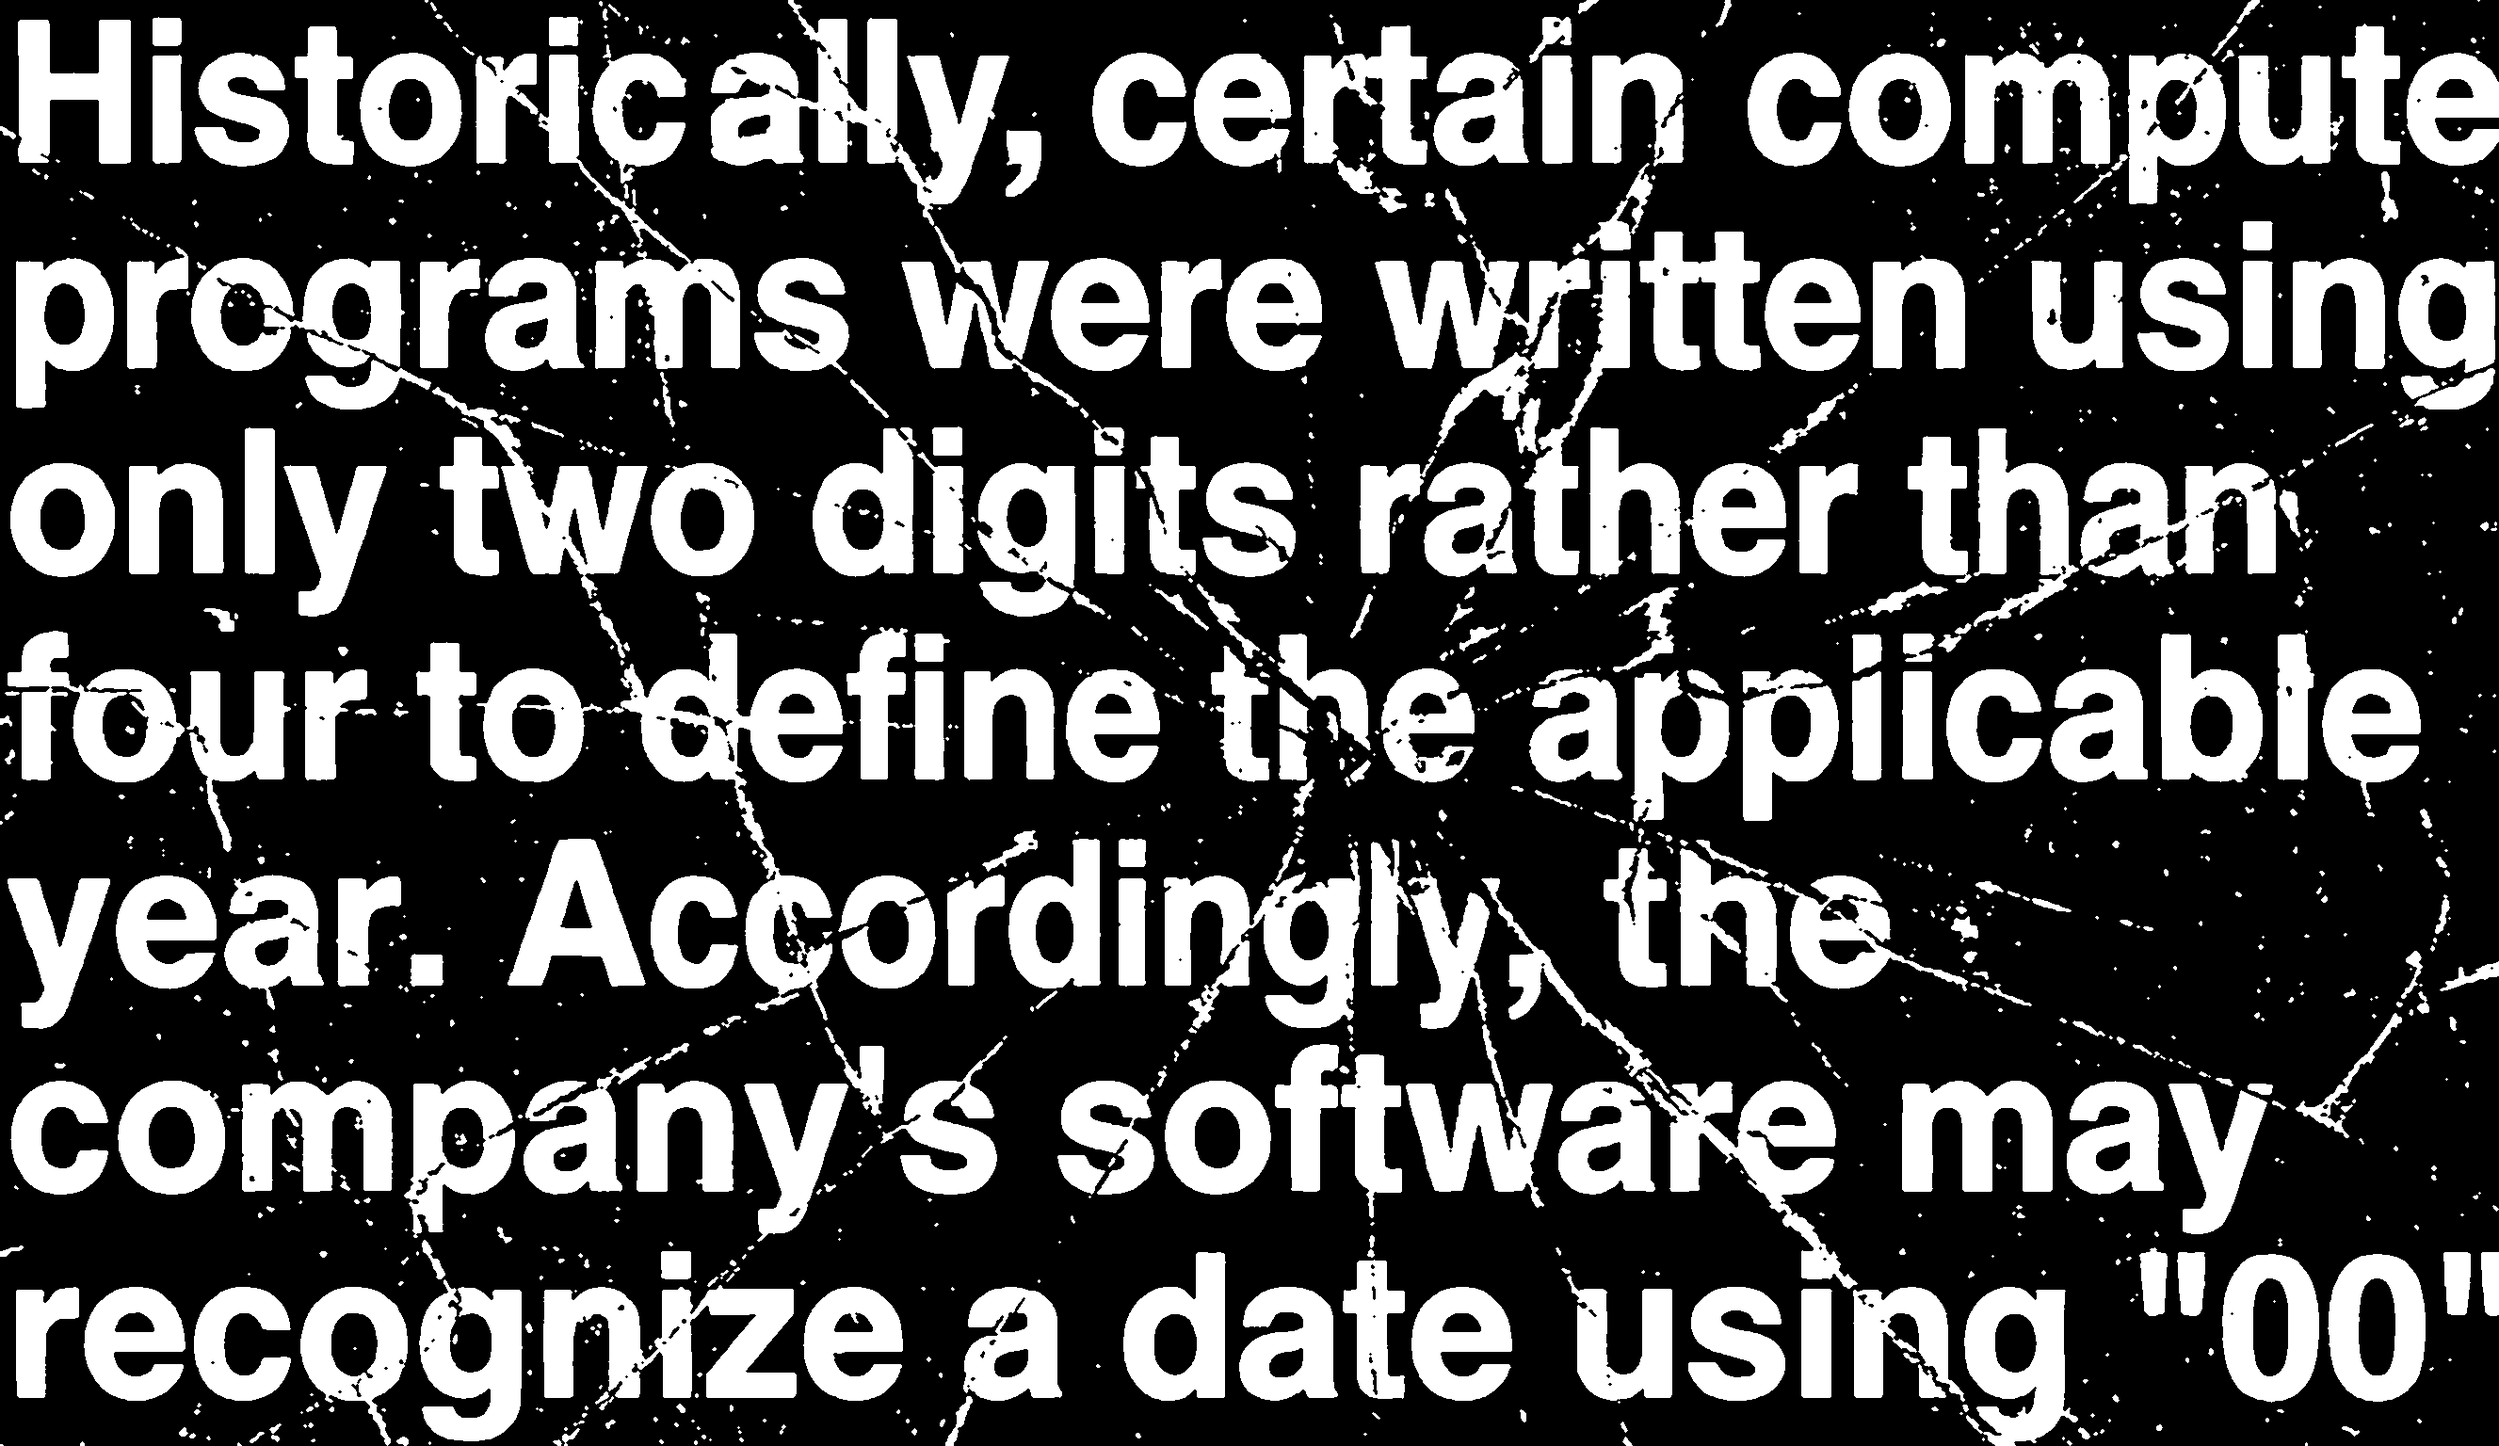
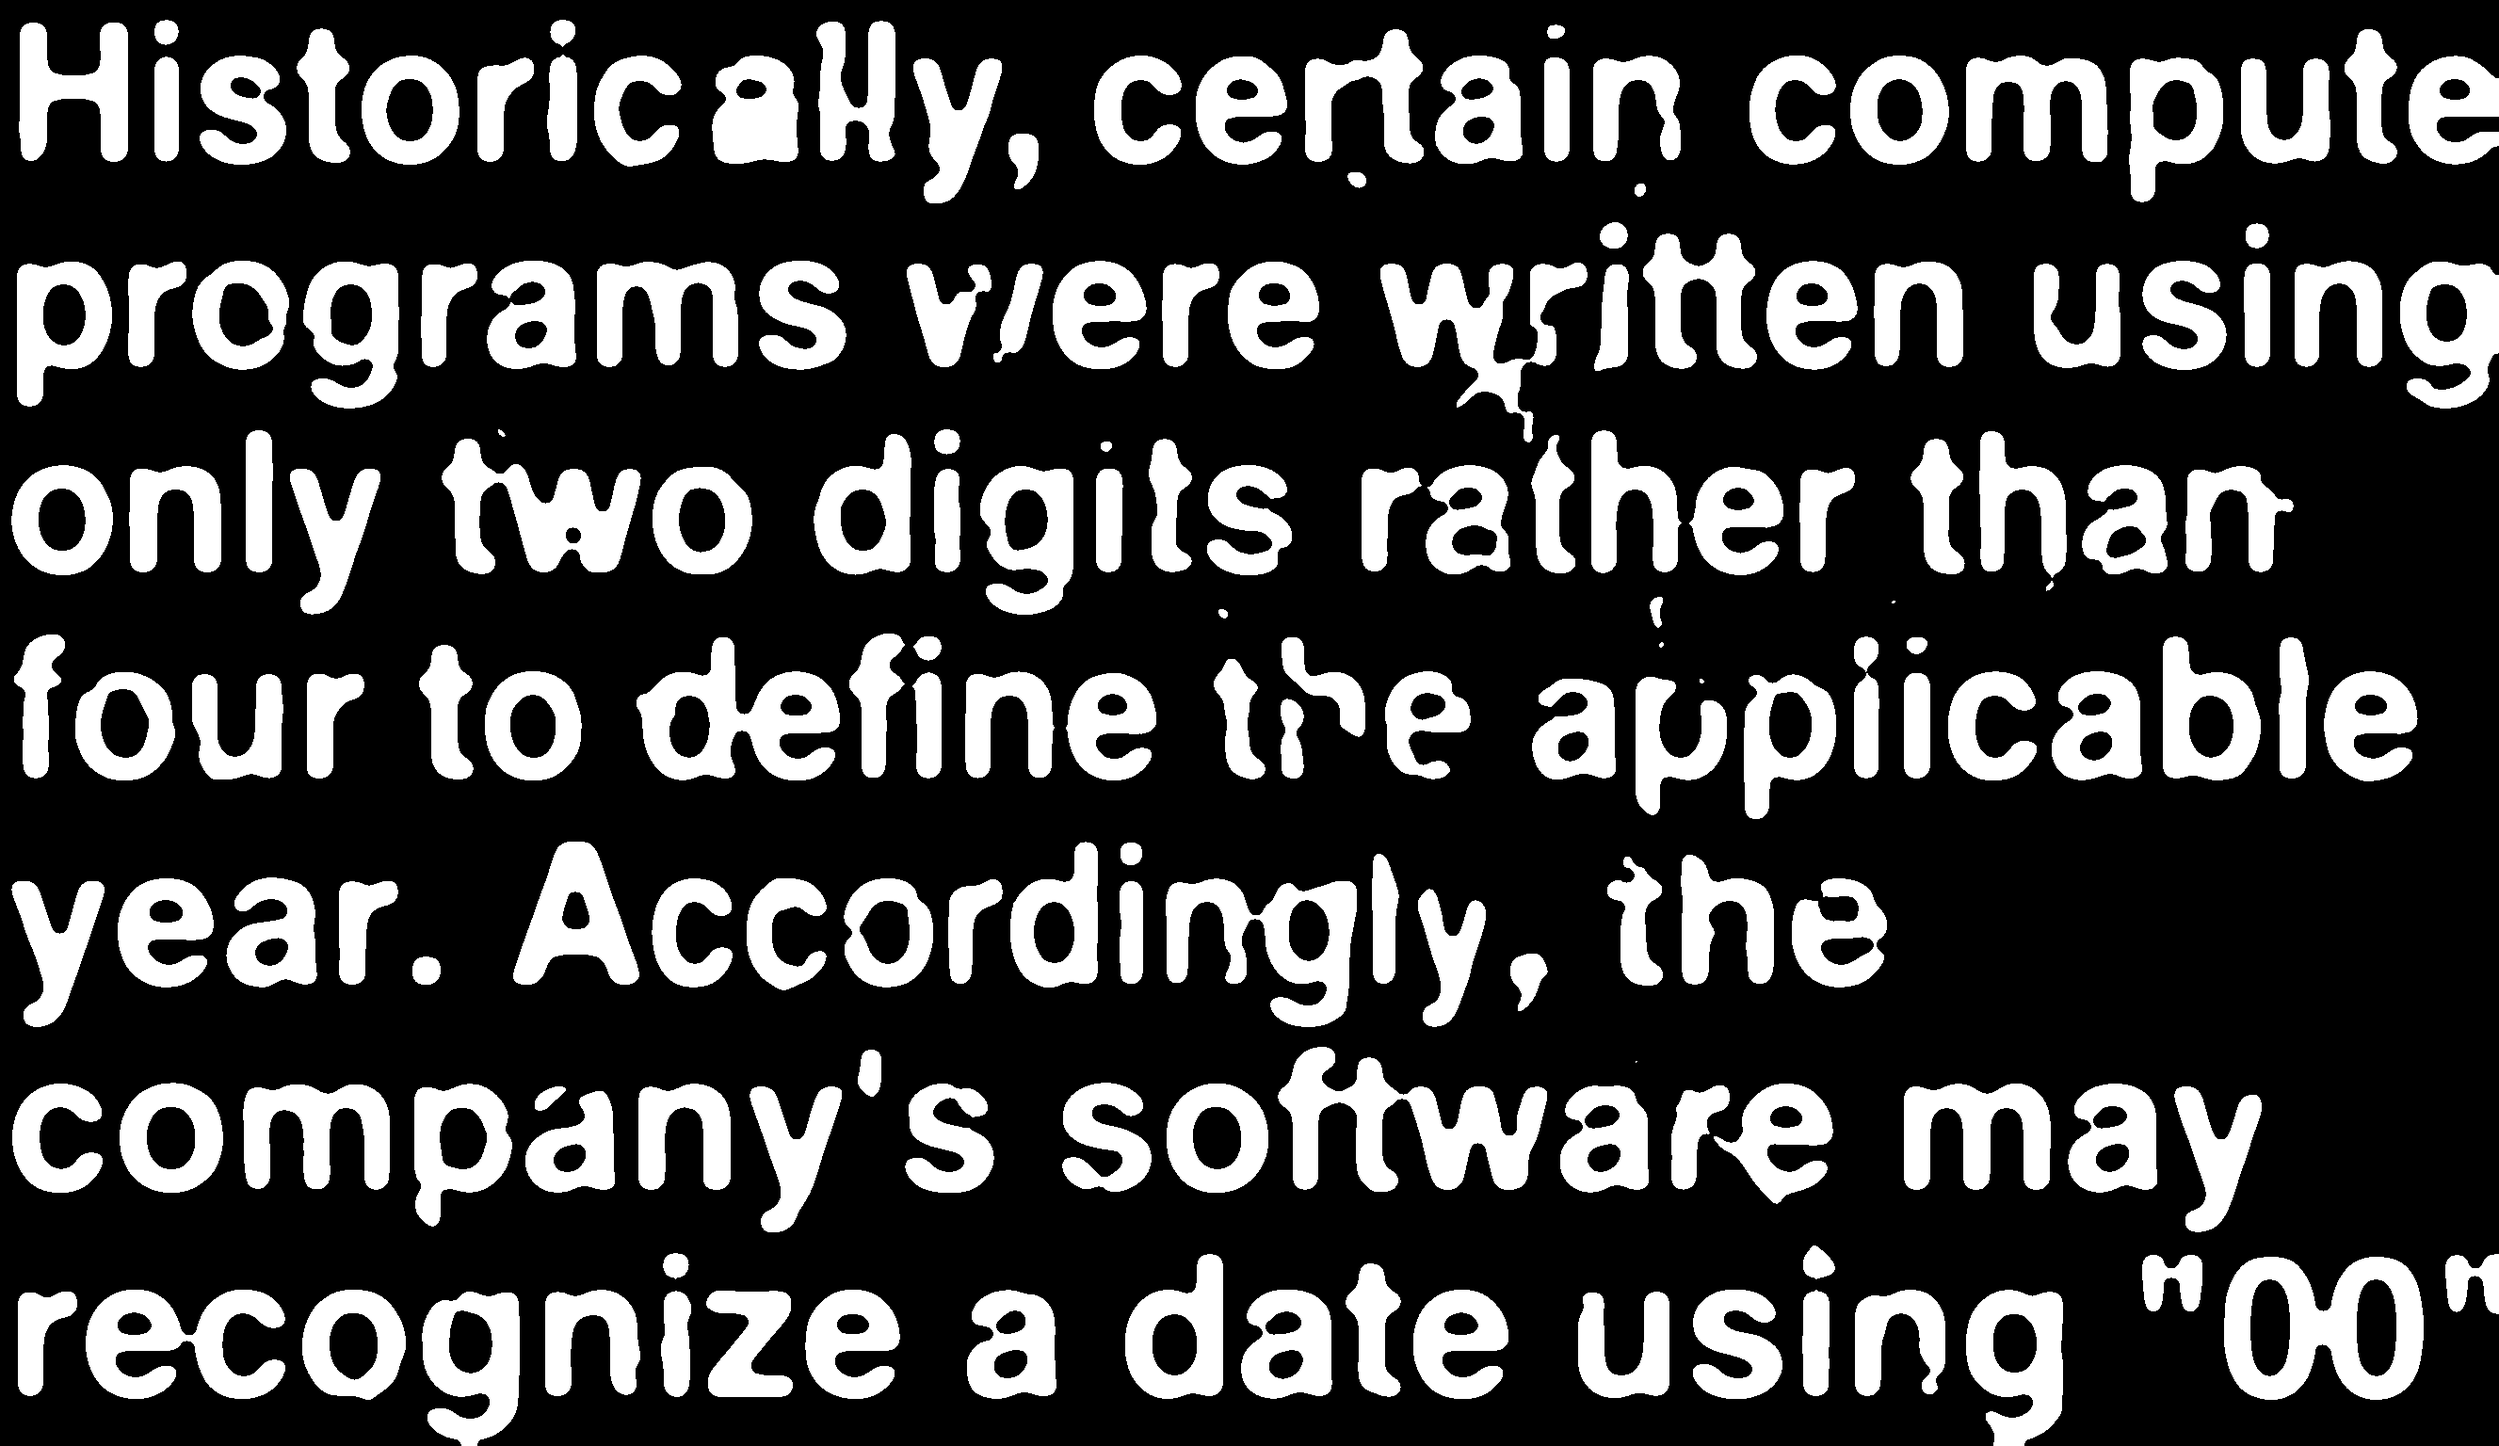
Done on image 1 enhancement

diff --git a/Lab6/tasks/task1.py b/Lab6/tasks/task1.py
@@ -2,70 +2,81 @@ import cv2
 import numpy as np
 import matplotlib.pyplot as plt
 
-# Read the input image
+# 1. Read the image
 image = cv2.imread('image1.png', cv2.IMREAD_GRAYSCALE)
 
-# Apply binary thresholding
-_, binary_image = cv2.threshold(image, 130, 255, cv2.THRESH_BINARY)
+if image is None:
+    print("Error: Image not found.")
+else:
+    # 2. Initial Thresholding
+    # Use a moderate threshold to get clean binary image
+    _, thresh = cv2.threshold(image, 40, 255, cv2.THRESH_BINARY)
 
-# Apply closing operation to connect broken strokes
-# Use a moderately sized rectangular kernel
-kernel_close = cv2.getStructuringElement(cv2.MORPH_RECT, (4, 3))
-closed = cv2.morphologyEx(binary_image, cv2.MORPH_CLOSE, kernel_close, iterations=1)
+    # 3. Apply Gaussian Blur to connect broken parts
+    # Kernel size must be odd number
+    blurred = cv2.GaussianBlur(thresh, (49,49), 0)
 
-# Apply dilation to strengthen and smooth the characters
-kernel_dilate = cv2.getStructuringElement(cv2.MORPH_ELLIPSE, (3, 3))
-dilated = cv2.dilate(closed, kernel_dilate, iterations=1)
+    # 4. Morphological Closing to connect gaps
+    # Use moderate kernel for good connection
+    kernel_close = cv2.getStructuringElement(cv2.MORPH_ELLIPSE, (17, 17))
+    closed = cv2.morphologyEx(blurred, cv2.MORPH_CLOSE, kernel_close, iterations=1)
 
-# Apply another closing to ensure all gaps are filled
-kernel_close2 = cv2.getStructuringElement(cv2.MORPH_ELLIPSE, (3, 3))
-result = cv2.morphologyEx(dilated, cv2.MORPH_CLOSE, kernel_close2, iterations=1)
+    # 5. Apply slight dilation to strengthen characters
+    kernel_dilate = cv2.getStructuringElement(cv2.MORPH_ELLIPSE, (2,2))
+    dilated = cv2.dilate(closed, kernel_dilate, iterations=1)
 
-# Display results
-fig, axes = plt.subplots(1, 3, figsize=(15, 5))
+    # 6. Final Thresholding to clean edges
+    _, final_result = cv2.threshold(dilated, 150, 255, cv2.THRESH_BINARY)
 
-axes[0].imshow(binary_image, cmap='gray')
-axes[0].set_title('Original Broken Text')
-axes[0].axis('off')
+    # --- Display Results ---
+    plt.figure(figsize=(15, 5))
+    
+    plt.subplot(1, 3, 1)
+    plt.title("Original (Broken)")
+    plt.imshow(image, cmap='gray')
+    plt.axis('off')
 
-axes[1].imshow(closed, cmap='gray')
-axes[1].set_title('After First Closing')
-axes[1].axis('off')
+    plt.subplot(1, 3, 2)
+    plt.title("After Closing")
+    plt.imshow(dilated, cmap='gray')
+    plt.axis('off')
 
-axes[2].imshow(result, cmap='gray')
-axes[2].set_title('Final Result')
-axes[2].axis('off')
+    plt.subplot(1, 3, 3)
+    plt.title("Final Result")
+    plt.imshow(final_result, cmap='gray')
+    plt.axis('off')
 
-plt.tight_layout()
-plt.show()
+    plt.tight_layout()
+    plt.show()
 
-# Save the result
-cv2.imwrite('image1_repaired.png', result)
-
-print("Image processing completed!")
-print("\nAlgorithm Explanation:")
-print("=" * 60)
-print("1. Binary Thresholding (threshold=130):")
-print("   - Converts image to binary (black and white)")
-print("   - Threshold value separates text from background")
-print("")
-print("2. Morphological Closing (4x3 rectangular kernel):")
-print("   - Dilation followed by erosion")
-print("   - Connects nearby broken strokes")
-print("   - Fills small gaps in character strokes")
-print("")
-print("3. Dilation (3x3 elliptical kernel):")
-print("   - Expands white regions (text)")
-print("   - Strengthens and thickens character strokes")
-print("   - Elliptical kernel creates smoother edges")
-print("")
-print("4. Final Closing (3x3 elliptical kernel):")
-print("   - Ensures all remaining gaps are filled")
-print("   - Smooths character edges")
-print("   - Creates clean, continuous text")
-print("")
-print("Why this approach works:")
-print("- Rectangular kernel first: connects breaks efficiently")
-print("- Elliptical kernels: create smooth, natural-looking text")
-print("- Multiple steps: gradually repairs without over-processing")
-print("- Result: Clean, readable, connected characters")
+    # Save the output
+    cv2.imwrite('image1_repaired.png', final_result)
+    
+    print("Image processing completed!")
+    print("\nAlgorithm Explanation:")
+    print("=" * 60)
+    print("1. Binary Thresholding (threshold=130):")
+    print("   - Creates clean black and white image")
+    print("   - Separates text from background")
+    print("")
+    print("2. Gaussian Blur (41x41 kernel):")
+    print("   - Large blur smooths and connects nearby broken pixels")
+    print("   - Spreads white pixels to bridge gaps")
+    print("   - Kernel size must be odd number")
+    print("")
+    print("3. Morphological Closing (9x9 ellipse, 2 iterations):")
+    print("   - Dilation followed by erosion")
+    print("   - Connects gaps in broken characters")
+    print("   - Ellipse kernel creates smooth, natural edges")
+    print("   - Multiple iterations ensure complete connection")
+    print("")
+    print("4. Final Thresholding (threshold=85):")
+    print("   - Converts blurred grayscale back to binary")
+    print("   - Lower threshold captures blur-connected pixels")
+    print("   - Ensures broken parts are included")
+    print("")
+    print("Why this approach works:")
+    print("- Large Gaussian blur bridges gaps naturally")
+    print("- Elliptical closing smooths edges")
+    print("- Lower final threshold includes connected areas")
+    print("- Result: Clean, connected, readable text")
